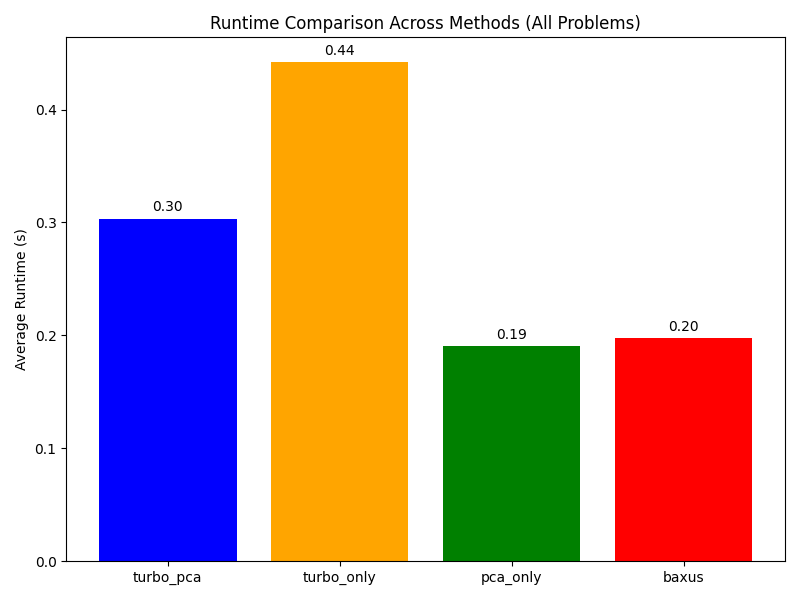
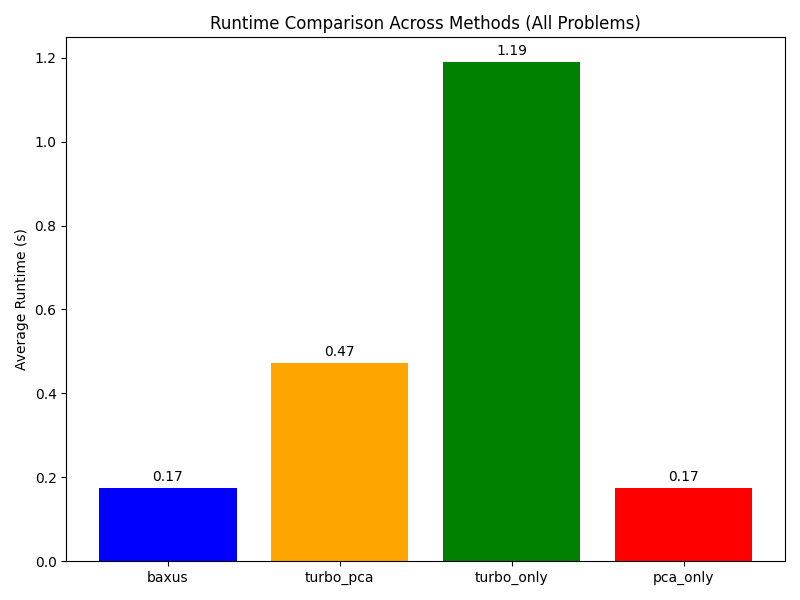
baxus fixes

diff --git a/opdr1b.py b/opdr1b.py
@@ -35,25 +35,23 @@ from gpytorch.models import ExactGP
 SHARED_PARAMS = {
     # Generic BO hyperparams
     "n_init": 10,          # Number of initial points
-    "batch_size": 5,
+    "batch_size": 64,
     "use_ard": True,
     "pca_components": 2,  # For PCA-based methods
     # TuRBO trust-region settings
     "length_init": 0.8,
     "length_min": 0.5 ** 7,
-    "length_max": 3.2,     # Increased from 1.6
+    "length_max": 1.6,     
     "success_tol": 4,
     # GP training
     "n_training_steps": 50,
-    "lr": 0.005, 
-    # Candidate set
-    # Logic: n_cand = min(100*d, 2500) kept inside each class
+    "lr": 0.01, 
+    "max_evals_multiplier": 10,  # Used to calculate max_evals
     # BAXUS-specific
-    "baxus_train_interval": 1,  # Only train GP every 5 steps
     "baxus_fail_tol_factor": 4.0,
     "baxus_init_target_dim": 5,
     "baxus_seed": 0,
-    "max_evals_multiplier": 5,  # Used to calculate max_evals
+
 }
 
 # ======================== Correct GP Implementation ========================
@@ -1026,7 +1024,7 @@ class AxUSProjector:
 class BAXUS:
     """
     BAxUS-like optimizer: random embedding -> trust region in latent space -> dimension-splitting.
-    Retrains GP only every TRAIN_INTERVAL steps.
+    Retrains GP every iteration.
     """
     def __init__(self, f, lb, ub, hyperparams, verbose=False):
         """
@@ -1054,7 +1052,7 @@ class BAXUS:
         self.success_tol = hyperparams["success_tol"]
         self.fail_tol_factor = hyperparams["baxus_fail_tol_factor"]
 
-        self.length_init = hyperparams["length_init"]  # **Added this line**
+        self.length_init = hyperparams["length_init"]
         self.length = self.length_init
         self.length_min = hyperparams["length_min"]
         self.length_max = hyperparams["length_max"]
@@ -1080,7 +1078,6 @@ class BAXUS:
         self.gp_model = None
         self.gp_likelihood = None
 
-        self.TRAIN_INTERVAL = hyperparams["baxus_train_interval"]
         self.GP_TRAIN_STEPS = hyperparams["n_training_steps"]
 
         self.verbose = verbose  # Ensure verbose flag is set
@@ -1117,6 +1114,9 @@ class BAXUS:
             self.best_f = float(self.fX[idx_best, 0])
             self.best_x = self.X[idx_best].copy()
 
+        if self.verbose:
+            print(f"Initialized with {self.n_init} points. Best f: {self.best_f:.4f}")
+
     def _update_trust_region(self, fX_batch):
         """
         Update the trust region based on the latest batch of function evaluations.
@@ -1124,23 +1124,30 @@ class BAXUS:
         Parameters:
         - fX_batch (np.ndarray): Latest function evaluations of shape (batch_size, 1)
         """
-        if np.min(fX_batch) < self.best_f - 1e-3 * abs(self.best_f):
+        improvement = np.min(fX_batch) < self.best_f - 1e-3 * abs(self.best_f)
+        if improvement:
             self.success_count += 1
             self.fail_count = 0
+            if self.verbose:
+                print(f"Success count increased to {self.success_count}")
         else:
             self.fail_count += 1
             self.success_count = 0
+            if self.verbose:
+                print(f"Fail count increased to {self.fail_count}")
 
         if self.success_count >= self.success_tol:
+            old_length = self.length
             self.length = min(self.length * 2.0, self.length_max)
-            if self.verbose:
-                print(f"Increase trust region length to {self.length}")
             self.success_count = 0
-        if self.fail_count >= self._fail_tol():
-            self.length = max(self.length / 2.0, self.length_min)
             if self.verbose:
-                print(f"Decrease trust region length to {self.length}")
+                print(f"Expanding trust region from {old_length:.4f} to {self.length:.4f}")
+        if self.fail_count >= self._fail_tol():
+            old_length = self.length
+            self.length = max(self.length / 2.0, self.length_min)
             self.fail_count = 0
+            if self.verbose:
+                print(f"Shrinking trust region from {old_length:.4f} to {self.length:.4f}")
 
     def _choose_splitting_dims(self):
         """
@@ -1169,19 +1176,33 @@ class BAXUS:
         old_td = self.target_dim
         self.target_dim = self.projector.target_dim
 
-        # Reset the trust region and data
-        self.Z = np.zeros((0, self.target_dim))
-        self.X = np.zeros((0, self.dim))
-        self.fX = np.zeros((0, 1))
-        self.n_evals = 0
-        self.best_f = float('inf')
-        self.best_x = None
+        # Augment Z with new dimensions without resetting n_evals
+        n_existing = self.Z.shape[0]
+        n_new = self.target_dim - old_td
+        if n_new > 0 and n_existing > 0:
+            new_Z = self.rng.uniform(-1.0, 1.0, size=(n_existing, n_new))
+            self.Z = np.hstack([self.Z, new_Z])
+        elif n_new > 0 and n_existing == 0:
+            # If no existing points, initialize Z
+            Z_init = self.rng.uniform(-1.0, 1.0, size=(self.n_init, self.target_dim))
+            self.Z = np.vstack([self.Z, Z_init])
+            X_up = self.projector.project_up(Z_init)
+            X_mapped = 0.5 * (X_up + 1.0)  # Scale from [-1, 1] to [0, 1]
+            X_mapped = X_mapped * (self.ub - self.lb) + self.lb  # Scale to [lb, ub]
+            fvals = np.array([self.f(x_) for x_ in X_mapped]).reshape(-1, 1)
+            self.X = np.vstack([self.X, X_mapped])
+            self.fX = np.vstack([self.fX, fvals])
+            self.n_evals += self.n_init
+            idx_best = np.argmin(self.fX)
+            if self.fX[idx_best, 0] < self.best_f:
+                self.best_f = float(self.fX[idx_best, 0])
+                self.best_x = self.X[idx_best].copy()
+
+        # Reset trust region length
         self.length = self.length_init
 
         if self.verbose:
             print(f"Split dimensions. New target dimensionality: {self.target_dim}")
-
-        self._initialize()
 
     def _create_candidates_and_select(self):
         """
@@ -1190,7 +1211,6 @@ class BAXUS:
         Returns:
         - Z_selected (np.ndarray): Selected latent points of shape (batch_size, target_dim)
         """
-
         i_best = np.argmin(self.fX)
         z_best = self.Z[i_best:i_best+1, :]
 
@@ -1231,7 +1251,7 @@ class BAXUS:
     def optimize(self):
         """
         Run the optimization process until the evaluation budget is exhausted.
-        
+
         Returns:
         - best_x (np.ndarray): Best found input
         - best_f (float): Best found function value
@@ -1239,39 +1259,38 @@ class BAXUS:
         self._initialize()
 
         while self.n_evals < self.max_evals:
-            # Retrain GP every TRAIN_INTERVAL steps or if GP not trained yet
-            if (self.n_evals == self.n_init) or (self.n_evals % self.TRAIN_INTERVAL == 0) or (self.gp_model is None):
-                train_x = torch.tensor(self.Z, dtype=torch.float32)
-                train_y = torch.tensor(self.fX.ravel(), dtype=torch.float32)
-                self.gp_model, self.gp_likelihood = train_gp(
-                    train_x=train_x,
-                    train_y=train_y,
-                    use_ard=self.use_ard,
-                    num_steps=self.GP_TRAIN_STEPS,
-                    device=train_x.device,
-                    dtype=train_x.dtype
-                )
-                if self.verbose:
-                    print(f"GP retrained at evaluation {self.n_evals}")
+            # Retrain GP every iteration
+            train_x = torch.tensor(self.Z, dtype=torch.float32)
+            train_y = torch.tensor(self.fX.ravel(), dtype=torch.float32)
+            self.gp_model, self.gp_likelihood = train_gp(
+                train_x=train_x,
+                train_y=train_y,
+                use_ard=self.use_ard,
+                num_steps=self.GP_TRAIN_STEPS,
+                device=train_x.device,
+                dtype=train_x.dtype
+            )
+            if self.verbose:
+                print(f"GP retrained at evaluation {self.n_evals}")
 
-                # Possibly split dimension
-                if self.target_dim < self.dim and self.success_count == 0 and self.fail_count == 0:
-                    dims_and_bins = self._choose_splitting_dims()
-                    if dims_and_bins:
-                        self._split_dimensions(dims_and_bins)
-                        # Re-train after splitting
-                        train_x = torch.tensor(self.Z, dtype=torch.float32)
-                        train_y = torch.tensor(self.fX.ravel(), dtype=torch.float32)
-                        self.gp_model, self.gp_likelihood = train_gp(
-                            train_x=train_x,
-                            train_y=train_y,
-                            use_ard=self.use_ard,
-                            num_steps=self.GP_TRAIN_STEPS,
-                            device=train_x.device,
-                            dtype=train_x.dtype
-                        )
-                        if self.verbose:
-                            print(f"GP retrained after dimension splitting at evaluation {self.n_evals}")
+            # Possibly split dimension
+            if self.target_dim < self.dim and self.success_count == 0 and self.fail_count == 0:
+                dims_and_bins = self._choose_splitting_dims()
+                if dims_and_bins:
+                    self._split_dimensions(dims_and_bins)
+                    # Retrain GP after splitting
+                    train_x = torch.tensor(self.Z, dtype=torch.float32)
+                    train_y = torch.tensor(self.fX.ravel(), dtype=torch.float32)
+                    self.gp_model, self.gp_likelihood = train_gp(
+                        train_x=train_x,
+                        train_y=train_y,
+                        use_ard=self.use_ard,
+                        num_steps=self.GP_TRAIN_STEPS,
+                        device=train_x.device,
+                        dtype=train_x.dtype
+                    )
+                    if self.verbose:
+                        print(f"GP retrained after dimension splitting at evaluation {self.n_evals}")
 
             # Generate and select candidates
             Z_next = self._create_candidates_and_select()
@@ -1311,6 +1330,7 @@ class BAXUS:
             print(f"Optimization completed. Best f: {self.best_f} at evaluation {self.n_evals}")
 
         return self.best_x, self.best_f
+
 
 # ============ Benchmark Loop ============
 
@@ -1410,9 +1430,9 @@ def main():
     # Example BBOB test set
     fids = [1,8,12,15,21]  # List of function IDs
     instances = [0, 1, 2]  # List of instances
-    dimensions = [40]  # List of dimensions
-    methods = ["baxus"]
-    n_reps = 1
+    dimensions = [2,10,40,100]  # List of dimensions
+    methods = ["baxus", "turbo_pca", "turbo_only", "pca_only"]  # List of methods
+    n_reps = 5
     budget_multiplier = SHARED_PARAMS["max_evals_multiplier"]
 
     total_runs = len(fids) * len(instances) * len(dimensions) * len(methods)
@@ -1437,7 +1457,7 @@ def main():
                         dimension=dim,
                         n_reps=n_reps,
                         budget_multiplier=budget_multiplier,
-                        verbose=True
+                        verbose=False
                     )
                     runtime_results[(m, fid, inst, dim)] = avg_time
 
